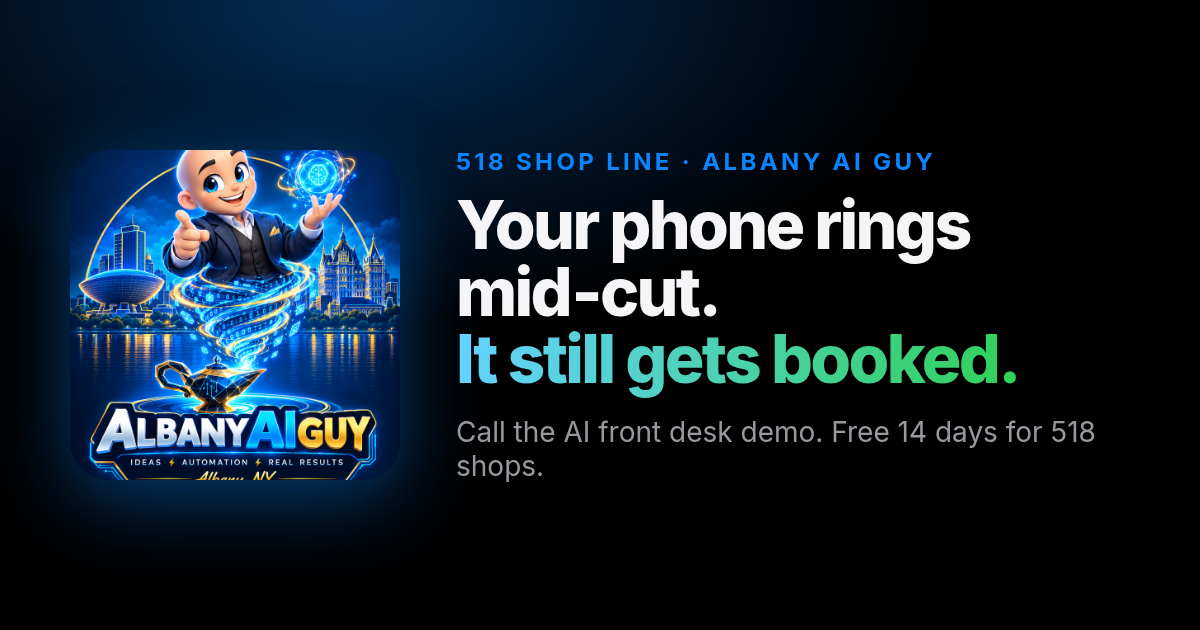
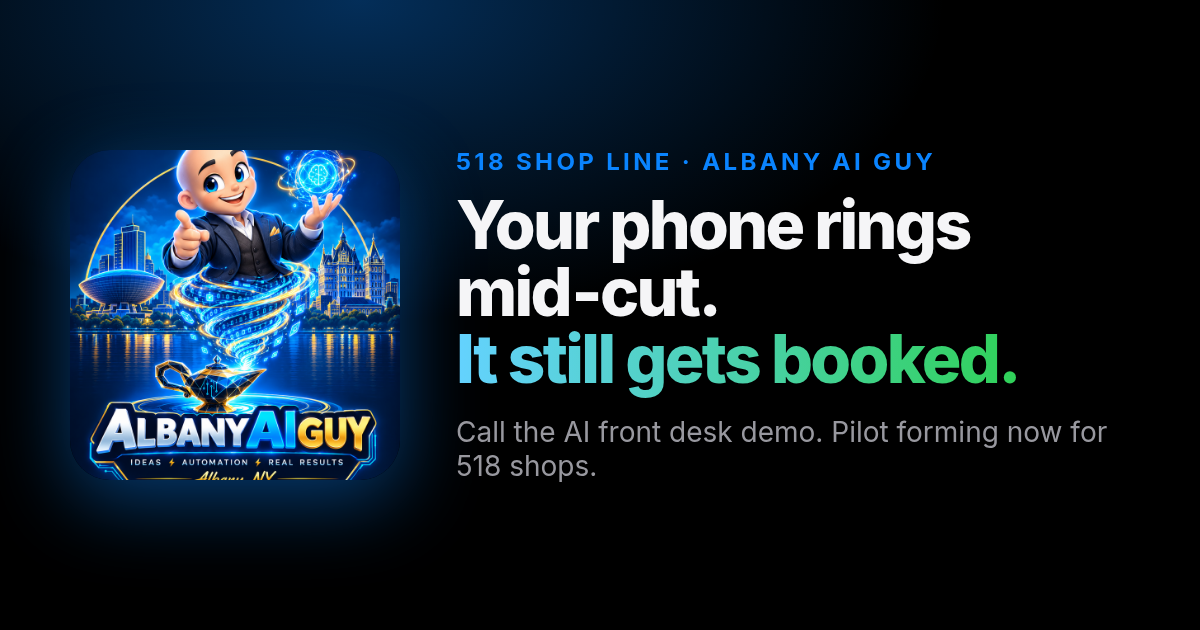
Content: Shop Line offers the pilot, not a free 14-day trial (CTA, metadata, demo replies, OG image); fix 'speech .' typo

Changed region(s): [[0.6783, 0.6635, 0.925, 0.7238], [0.37, 0.7238, 0.4933, 0.754]]

diff --git a/src/components/shop-line/shop-line-demo.tsx b/src/components/shop-line/shop-line-demo.tsx
@@ -10,7 +10,7 @@ type OwnerText = { at: string; body: string };
 const SHOP_NAME = "Chairside Barber Co.";
 const GREETING = `Thanks for calling ${SHOP_NAME}, this is the front desk. Marco's mid-cut, but I can get you booked. What can I do for you?`;
 const TRIAL_MAIL =
-  "mailto:hello@albanyaiguy.com?subject=518%20Shop%20Line%20-%2014-day%20trial&body=Hi%20Chad%2C%20I%20tried%20the%20Shop%20Line%20demo.%20My%20shop%20is%3A%20";
+  "mailto:hello@albanyaiguy.com?subject=518%20Shop%20Line%20-%20pilot&body=Hi%20Chad%2C%20I%20tried%20the%20Shop%20Line%20demo.%20My%20shop%20is%3A%20";
 
 // Minimal typing for the browser speech API (not in lib.dom for all targets).
 type SR = {
@@ -540,12 +540,13 @@ export function ShopLineDemo() {
             <h2>That&apos;s what your customers would get.</h2>
             <p>
               Your shop&apos;s name, your hours, your open times, your number.
-              Try it free for 14 days. No contract, and a real person picks up:
-              me, Chad Lenseth, here in Albany.
+              I&apos;m starting a small pilot with Albany-area shops. No
+              contract, and a real person picks up: me, Chad Lenseth, here in
+              Albany.
             </p>
             <div className={s.ctaRow}>
               <a className={s.call} href={TRIAL_MAIL}>
-                Start my free 14 days
+                Join the pilot
               </a>
               <button type="button" className={s.ghostBtn} onClick={reset}>
                 Try another call
@@ -570,8 +571,8 @@ export function ShopLineDemo() {
       <footer className={s.foot}>
         <p>
           Demo notes: {SHOP_NAME} is a made-up shop. Texts on this page are
-          shown, not sent. Voice uses your browser&apos;s mic and speech . This
-          page doesn&apos;t save what you say.
+          shown, not sent. Voice uses your browser&apos;s mic and speech
+          recognition. This page doesn&apos;t save what you say.
         </p>
         <p>
           Albany AI Guy ·{" "}

diff --git a/src/lib/shop-line/shop.ts b/src/lib/shop-line/shop.ts
@@ -320,5 +320,5 @@ ${slotLines || "- none: fully booked through tomorrow"}
 
 Never invent other open times, prices, or facts. Never take card numbers. If someone wants a time that is not open, say it's taken and offer the nearest open ones.
 
-If asked whether you are a real person or who made you: say you're an AI front desk demo built by Albany AI Guy, that's Chad Lenseth here in Albany, and any shop can try it free for 14 days at hello@albanyaiguy.com. Do not pitch unless asked. If the caller is clearly off topic, gently steer back to booking.`;
+If asked whether you are a real person or who made you: say you're an AI front desk demo built by Albany AI Guy, that's Chad Lenseth here in Albany, and Albany-area shops can join the pilot at hello@albanyaiguy.com. Do not pitch unless asked. If the caller is clearly off topic, gently steer back to booking.`;
 }

diff --git a/src/lib/shop-line/engine.ts b/src/lib/shop-line/engine.ts
@@ -70,7 +70,7 @@ export function ruleReply(
     )
   ) {
     answer =
-      "I'm an AI front desk demo built by Albany AI Guy, that's Chad Lenseth here in Albany. Any shop can try it free for 14 days.";
+      "I'm an AI front desk demo built by Albany AI Guy, that's Chad Lenseth here in Albany. Albany-area shops can join the pilot at hello@albanyaiguy.com.";
   } else if (/(how much|price|cost|charge)/.test(last)) {
     answer = `${servicesLine()}.`;
   } else if (/(hours|open|close|what time do you)/.test(last) && !slot) {

diff --git a/src/app/shop-line/page.tsx b/src/app/shop-line/page.tsx
@@ -8,7 +8,7 @@ export const metadata: Metadata = {
   openGraph: {
     title: "518 Shop Line: call the AI front desk",
     description:
-      "Talk to it like a customer. It books you and texts the owner. Free 14-day trial for 518 shops.",
+      "Talk to it like a customer. It books you and texts the owner. Pilot forming now for 518 shops.",
     url: "https://albanyaiguy.com/shop-line",
   },
   alternates: { canonical: "/shop-line" },
